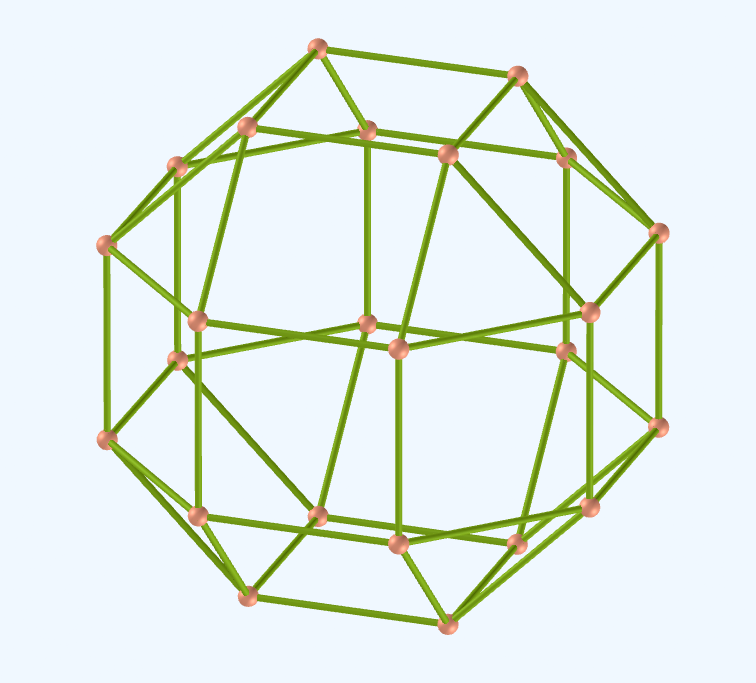
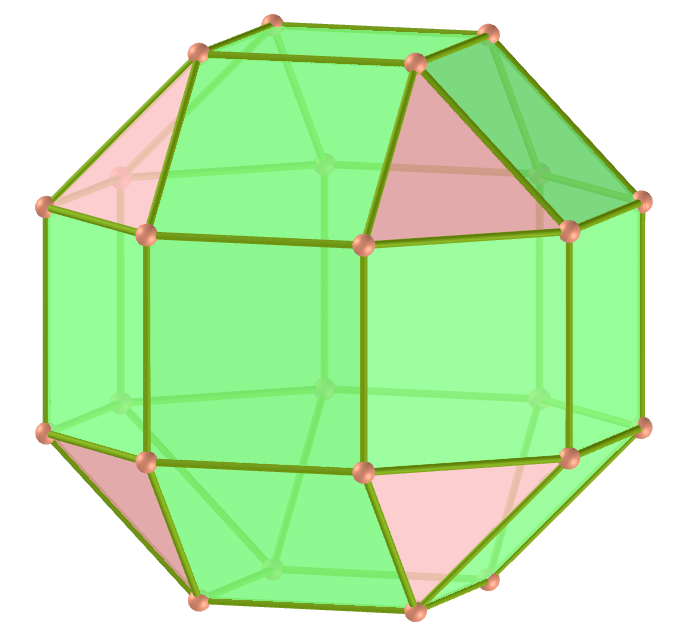
update

diff --git a/vr/truncated_cube.html b/vr/truncated_cube.html
@@ -20,10 +20,10 @@
 			<a-mixin id="s11_3o" position="0 3.6213 0"></a-mixin> <!--apotema do solido-->
 			<a-mixin id="esfera" geometry="radius: 0.17;" material="metalness:0.4; roughness:0.5;"></a-mixin> <!--vertices-->
 			<a-mixin id="arestas" geometry="radius: 0.05; height:3"material="metalness:0.4; roughness:0.5;"></a-mixin> <!--arestas-->
+			<a-asset-item id="material" src="outros/solidos.mtl"></a-asset-item>
 		</a-assets>
 
-		<a-entity hand-controls controller-cursor raycaster="far: 2"></a-entity>
-		<a-entity gearvr-controls></a-entity>
+		<a-entity camera="fov:1; near:1;" orbit-controls="target: 0 0 0; maxPolarAngle: 90; minDistance: 0.5; initialPosition: 100 150 700"></a-entity>
 
 		<!--<a-entity scale="2 2 2" position="0 0 0">
 			<a-plane mixin="mtl0p texto" material="color: #b3b3b3" width="4.5" position="0 -1 2.5" rotation="-45 0 0" 
@@ -31,6 +31,7 @@
 		</a-entity>-->
 		<a-entity scale="0.9 0.9 0.9" position="0 0 0">
 	  		<!--<a-gltf-model src="archimedes/truncated_cube.glb"></a-gltf-model>-->
+			<a-obj-model scale="3 3 3" rotation="0 0 0" src="outros/TruncatedCube.obj" mtl="#material"></a-obj-model>
 			<a-entity position="0 -3.6213 0"> <!--apotema-->
 			<a-entity id="baixo">
 					<a-entity rotation="0 0 90">
@@ -224,8 +225,6 @@
 				
 			</a-entity>
 		</a-entity>
-
-		<a-entity camera="fov:1; near:1;" orbit-controls="target: 0 0 0; maxPolarAngle: 90; minDistance: 0.5; initialPosition: 300 300 650"></a-entity>
 	  
 		<a-light type="ambient" color="white" intensity="0.5"></a-light>
 		<a-light type="directional" color="white" intensity="0.8" position="-3 2 1"></a-light>

diff --git a/archimedes.html b/archimedes.html
@@ -6396,6 +6396,7 @@
 	<a-marker type="barcode" value="13" smooth="smooth:true; smoothCount:1">
 	   	<a-link mixin="lnk" class="lnk" href="vr/rhombicuboctahedron.html"></a-link>
 	   		<a-entity position="1.5 0.8 0" id="prop1" scale="0.2 0.2 0.2">
+			<a-obj-model scale="3 3 3" position="0 3.6213 0" rotation="148.28 0 0" src="outros/Rhombicosidodecahedron.obj" mtl="#material"></a-obj-model>
 			<a-entity id="baixo">
 					<a-entity rotation="0 0 90">
 						<a-cylinder mixin="arestas mtl8 s10_1q" ></a-cylinder>
